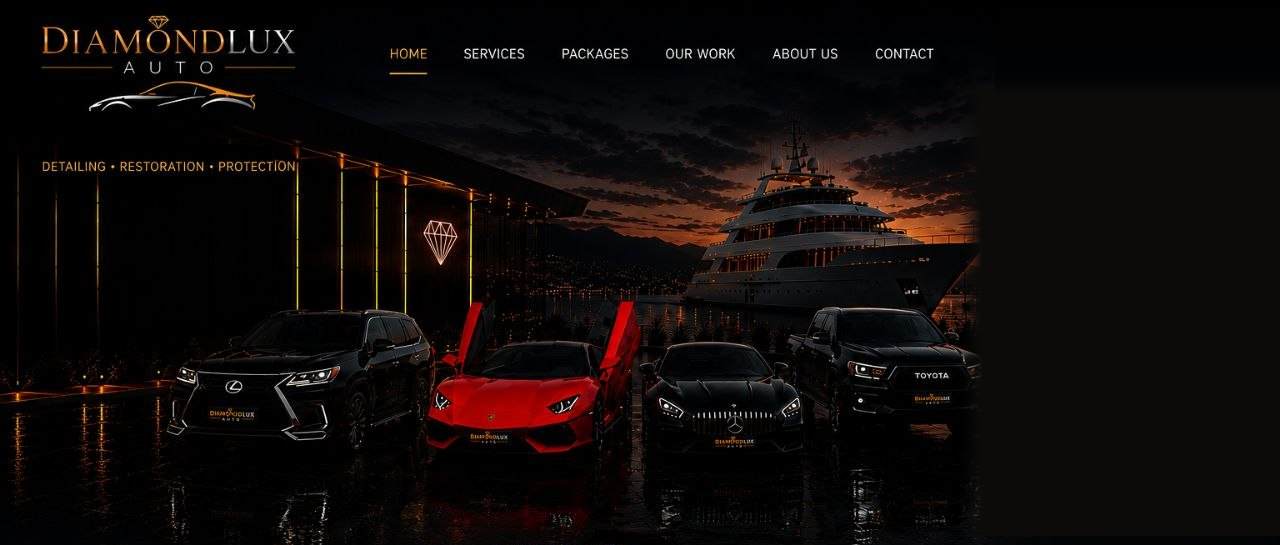
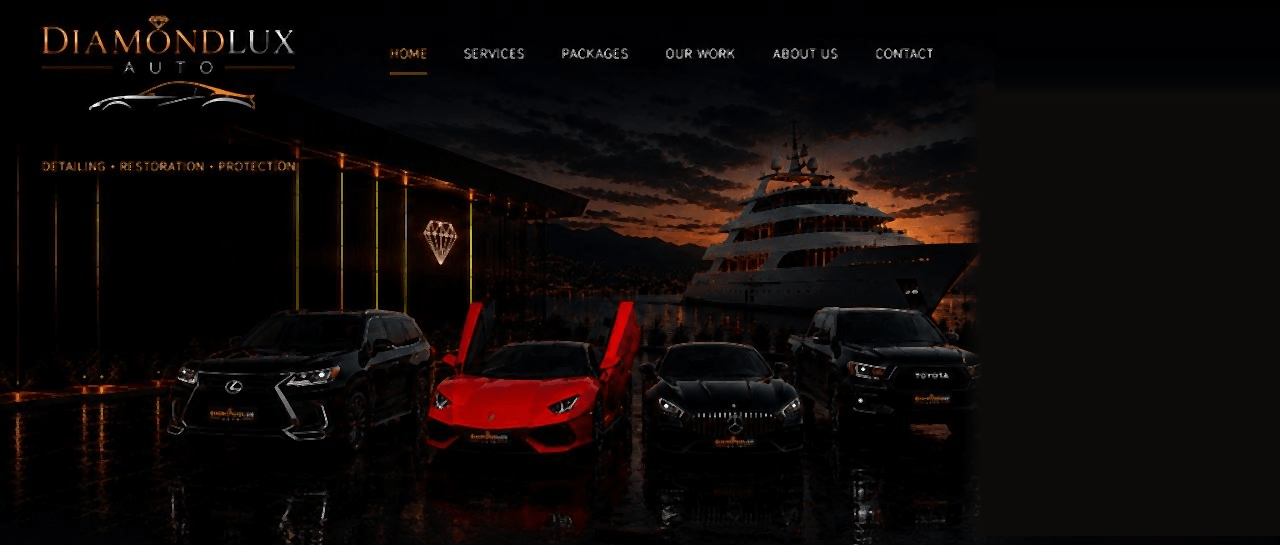
Add quick-quote webhook relay to n8n and finish quote panel wiring
Adds /api/quick-quote to forward form submissions to the DiamondLux
Auto n8n workflow (Google Sheets + Gmail confirmation), plus quote
panel, footer, and hero image polish.

diff --git a/components/QuotePanel.tsx b/components/QuotePanel.tsx
@@ -1,24 +1,97 @@
 "use client";
 
-import { useState } from "react";
+import { useRef, useState } from "react";
+
+const MAX_PHOTOS = 20;
+const MAX_TOTAL_BYTES = 4 * 1024 * 1024; // keep the JSON payload comfortably within serverless body limits
+
+function readFileAsDataUrl(file: File): Promise<string> {
+  return new Promise((resolve, reject) => {
+    const reader = new FileReader();
+    reader.onload = () => resolve(reader.result as string);
+    reader.onerror = () => reject(reader.error);
+    reader.readAsDataURL(file);
+  });
+}
 
 export default function QuotePanel() {
   const [submitted, setSubmitted] = useState(false);
+  const [submitting, setSubmitting] = useState(false);
+  const [error, setError] = useState<string | null>(null);
   const [name, setName] = useState("");
   const [email, setEmail] = useState("");
   const [phone, setPhone] = useState("");
   const [details, setDetails] = useState("");
+  const [photos, setPhotos] = useState<File[]>([]);
+  const fileInputRef = useRef<HTMLInputElement>(null);
 
-  function handleSubmit() {
-    setSubmitted(true);
+  function handlePhotosSelected(fileList: FileList | null) {
+    if (!fileList) return;
+    const files = Array.from(fileList).slice(0, MAX_PHOTOS);
+    setError(null);
+    setPhotos(files);
+  }
+
+  async function handleSubmit() {
+    if (submitting) return;
+
+    if (!name.trim() || !email.trim()) {
+      setError("Please enter your name and email.");
+      return;
+    }
+
+    const totalBytes = photos.reduce((sum, file) => sum + file.size, 0);
+    if (totalBytes > MAX_TOTAL_BYTES) {
+      setError("Your photos are too large. Please upload fewer or smaller images.");
+      return;
+    }
+
+    setSubmitting(true);
+    setError(null);
+
+    try {
+      const encodedPhotos = await Promise.all(
+        photos.map(async (file) => ({
+          filename: file.name,
+          contentType: file.type || "application/octet-stream",
+          dataUrl: await readFileAsDataUrl(file),
+        }))
+      );
+
+      const response = await fetch("/api/quick-quote", {
+        method: "POST",
+        headers: { "Content-Type": "application/json" },
+        body: JSON.stringify({
+          fullName: name,
+          phone,
+          email,
+          description: details,
+          photos: encodedPhotos,
+        }),
+      });
+
+      if (!response.ok) {
+        const data = await response.json().catch(() => null);
+        throw new Error(data?.error || "Something went wrong. Please try again.");
+      }
+
+      setSubmitted(true);
+    } catch (err) {
+      setError(err instanceof Error ? err.message : "Something went wrong. Please try again.");
+    } finally {
+      setSubmitting(false);
+    }
   }
 
   function resetForm() {
     setSubmitted(false);
+    setError(null);
     setName("");
     setEmail("");
     setPhone("");
     setDetails("");
+    setPhotos([]);
+    if (fileInputRef.current) fileInputRef.current.value = "";
   }
 
   return (
@@ -212,6 +285,7 @@ export default function QuotePanel() {
             </div>
 
             <div
+              onClick={() => fileInputRef.current?.click()}
               style={{
                 display: "flex",
                 alignItems: "center",
@@ -223,6 +297,14 @@ export default function QuotePanel() {
                 cursor: "pointer",
               }}
             >
+              <input
+                ref={fileInputRef}
+                type="file"
+                accept="image/*"
+                multiple
+                onChange={(e) => handlePhotosSelected(e.target.files)}
+                style={{ display: "none" }}
+              />
               <svg width="18" height="18" viewBox="0 0 24 24" fill="none" stroke="#C9A227" strokeWidth="1.4" strokeLinecap="round" strokeLinejoin="round">
                 <path d="M21 15v4a2 2 0 0 1-2 2H5a2 2 0 0 1-2-2v-4" />
                 <path d="M17 8l-5-5-5 5" />
@@ -230,10 +312,12 @@ export default function QuotePanel() {
               </svg>
               <div>
                 <div style={{ fontSize: "11.5px", color: "#E6E2D9", fontWeight: 500 }}>
-                  Upload Photos (Max 20 photos)
+                  {photos.length > 0
+                    ? `${photos.length} photo${photos.length === 1 ? "" : "s"} selected`
+                    : "Upload Photos (Max 20 photos)"}
                 </div>
                 <div style={{ fontSize: "10px", color: "#8a8a86", fontWeight: 300, marginTop: "1px" }}>
-                  You can upload up to 20 images
+                  {photos.length > 0 ? "Tap to change your selection" : "You can upload up to 20 images"}
                 </div>
               </div>
             </div>
@@ -275,8 +359,26 @@ export default function QuotePanel() {
             </div>
           </div>
 
+          {error && (
+            <div
+              style={{
+                marginTop: "10px",
+                background: "rgba(200,60,50,0.1)",
+                border: "1px solid rgba(200,60,50,0.35)",
+                borderRadius: "8px",
+                padding: "8px 11px",
+                color: "#e08a82",
+                fontSize: "11.5px",
+                lineHeight: 1.5,
+              }}
+            >
+              {error}
+            </div>
+          )}
+
           <button
             onClick={handleSubmit}
+            disabled={submitting}
             className="dlx-gold"
             style={{
               width: "100%",
@@ -291,10 +393,11 @@ export default function QuotePanel() {
               textTransform: "uppercase",
               padding: "11px 0",
               borderRadius: "8px",
-              cursor: "pointer",
+              cursor: submitting ? "default" : "pointer",
+              opacity: submitting ? 0.7 : 1,
             }}
           >
-            Request My Quote
+            {submitting ? "Submitting…" : "Request My Quote"}
           </button>
 
           <div

diff --git a/app/api/quick-quote/route.ts b/app/api/quick-quote/route.ts
@@ -1,0 +1,64 @@
+const PRODUCTION_WEBHOOK_URL = "https://shirin.app.n8n.cloud/webhook/quick-quote";
+
+interface QuickQuotePhoto {
+  filename: string;
+  contentType: string;
+  dataUrl: string;
+}
+
+interface QuickQuotePayload {
+  fullName: string;
+  phone: string;
+  email: string;
+  description: string;
+  photos: QuickQuotePhoto[];
+}
+
+export async function POST(request: Request) {
+  let body: Partial<QuickQuotePayload>;
+  try {
+    body = await request.json();
+  } catch {
+    return Response.json({ error: "Invalid request body." }, { status: 400 });
+  }
+
+  const fullName = typeof body.fullName === "string" ? body.fullName.trim() : "";
+  const email = typeof body.email === "string" ? body.email.trim() : "";
+  const phone = typeof body.phone === "string" ? body.phone.trim() : "";
+  const description = typeof body.description === "string" ? body.description.trim() : "";
+  const photos = Array.isArray(body.photos) ? body.photos : [];
+
+  if (!fullName || !email) {
+    return Response.json({ error: "Full name and email are required." }, { status: 400 });
+  }
+
+  const webhookUrl = process.env.BOOKING_WEBHOOK_URL || PRODUCTION_WEBHOOK_URL;
+
+  try {
+    const controller = new AbortController();
+    const timeout = setTimeout(() => controller.abort(), 20000);
+
+    const webhookResponse = await fetch(webhookUrl, {
+      method: "POST",
+      headers: { "Content-Type": "application/json" },
+      body: JSON.stringify({ fullName, phone, email, description, photos }),
+      signal: controller.signal,
+    });
+
+    clearTimeout(timeout);
+
+    if (!webhookResponse.ok) {
+      return Response.json(
+        { error: "We couldn't submit your request right now. Please try again shortly." },
+        { status: 502 }
+      );
+    }
+
+    return Response.json({ success: true });
+  } catch {
+    return Response.json(
+      { error: "We couldn't submit your request right now. Please try again shortly." },
+      { status: 502 }
+    );
+  }
+}

diff --git a/components/ElevenLabsWidget.tsx b/components/ElevenLabsWidget.tsx
@@ -61,8 +61,11 @@ function ElevenLabsWidgetInner() {
     onMessage: ({ message, role, event_id }) => {
       setMessages((prev) => [...prev, { id: `${event_id ?? Date.now()}-${prev.length}`, role, text: message }]);
     },
-    onError: (message) => {
-      console.error("ElevenLabs conversation error:", message);
+    onError: (message, context) => {
+      console.error("ElevenLabs conversation error:", message, context);
+    },
+    onDisconnect: (details) => {
+      console.warn("ElevenLabs conversation disconnected:", details);
     },
   });
 

diff --git a/components/Footer.tsx b/components/Footer.tsx
@@ -139,8 +139,7 @@ export default function Footer() {
           <div style={{ color: "#7a7a7a", fontSize: "13px", fontFamily: "'Jost', sans-serif", fontWeight: 300, lineHeight: 2 }}>
             <div>1234 Luxury Drive, Suite 100</div>
             <div>Beverly Hills, CA 90210</div>
-            <div style={{ marginTop: "12px" }}>[phone redacted]</div>
-            <div>[email redacted]</div>
+            <div style={{ marginTop: "12px" }}>[email redacted]</div>
             <div style={{ marginTop: "16px", color: "#9A9A9A", fontSize: "12px", letterSpacing: "0.05em" }}>HOURS</div>
             <div>Mon – Fri: 8 am – 6 pm</div>
             <div>Saturday: 9 am – 5 pm</div>

diff --git a/components/SiteFooter.tsx b/components/SiteFooter.tsx
@@ -123,8 +123,7 @@ export default function SiteFooter() {
           <div style={{ color: "#6a6a6a", fontSize: "13px", fontFamily: "'Jost', sans-serif", fontWeight: 300, lineHeight: 1.95 }}>
             <div>1234 Luxury Drive, Suite 100</div>
             <div>Beverly Hills, CA 90210</div>
-            <div style={{ marginTop: "10px" }}>[phone redacted]</div>
-            <div>[email redacted]</div>
+            <div style={{ marginTop: "10px" }}>[email redacted]</div>
             <div style={{ marginTop: "14px", color: "#9A9A9A", fontSize: "11px", letterSpacing: "0.08em" }}>HOURS</div>
             <div>Mon – Fri: 8 am – 6 pm</div>
             <div>Saturday: 9 am – 5 pm</div>

diff --git a/next.config.ts b/next.config.ts
@@ -2,6 +2,9 @@ import type { NextConfig } from "next";
 
 const nextConfig: NextConfig = {
   devIndicators: false,
+  images: {
+    qualities: [75, 90, 100],
+  },
 };
 
 export default nextConfig;

diff --git a/app/contact/page.tsx b/app/contact/page.tsx
@@ -145,7 +145,6 @@ export default function ContactPage() {
               </div>
               <div style={{ display: "flex", flexDirection: "column", gap: "12px" }}>
                 {[
-                  { icon: "📞", label: "[phone redacted]" },
                   { icon: "✉️", label: "[email redacted]" },
                 ].map(({ icon, label }) => (
                   <div key={label} style={{ display: "flex", alignItems: "center", gap: "12px" }}>

diff --git a/components/HeroSection.tsx b/components/HeroSection.tsx
@@ -21,6 +21,7 @@ export default function HeroSection() {
         width={1280}
         height={720}
         priority
+        quality={100}
         style={{ display: "block", width: "100%", height: "auto" }}
         sizes="100vw"
       />